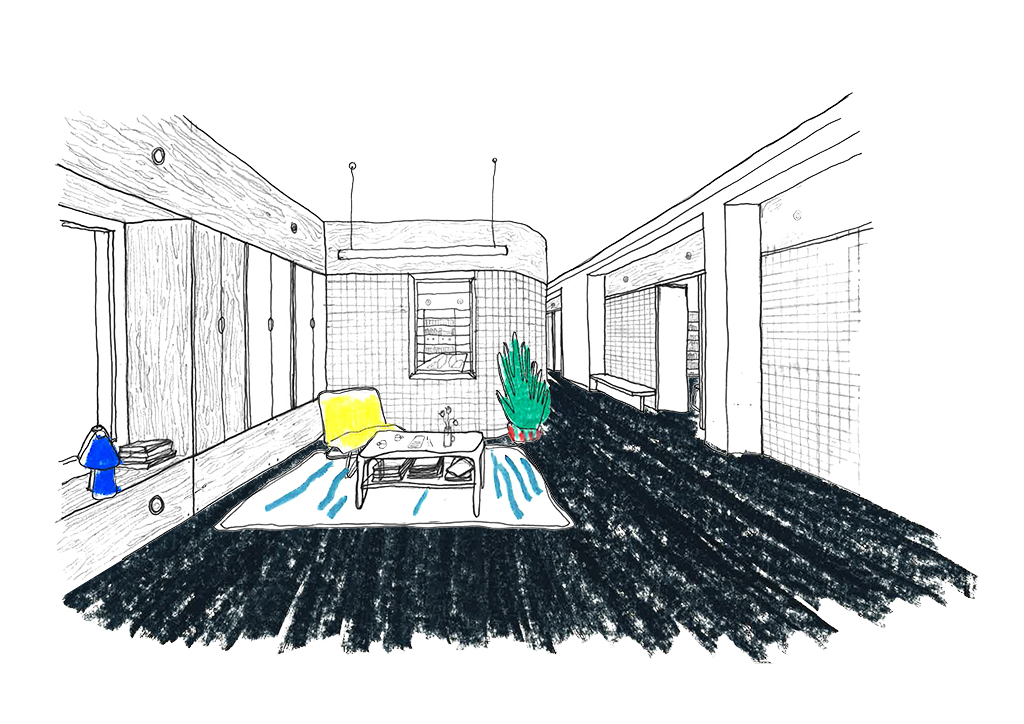
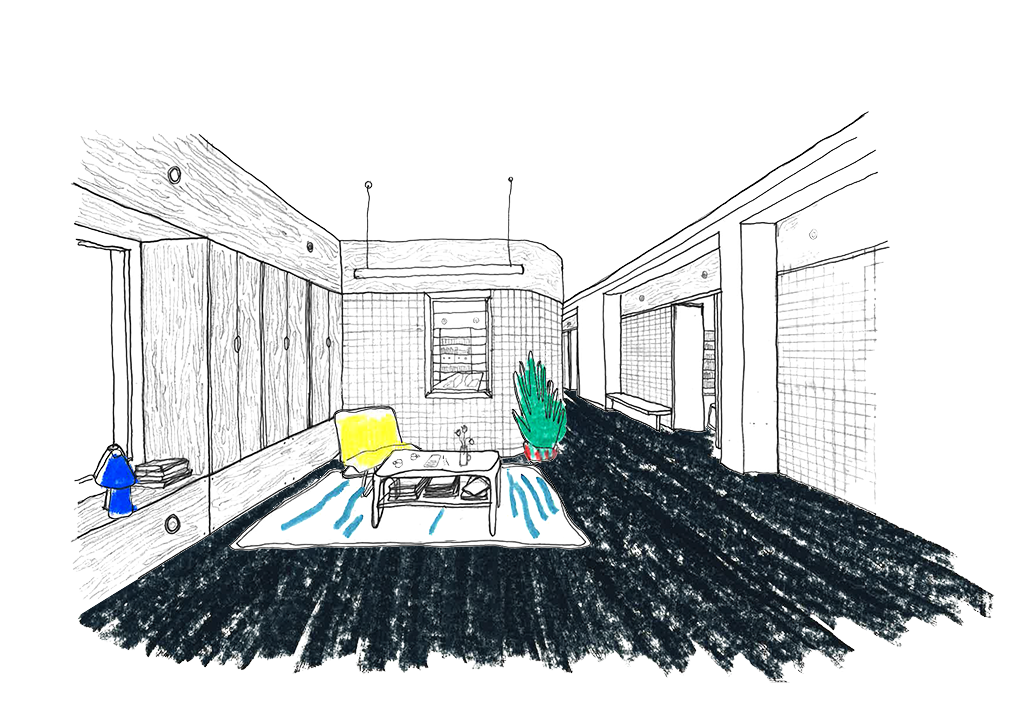
Mise à jour index.html : titres à 18px, descriptions à 15px, interlignes ajustés + remplacement de 2 photos

Changed region(s): [[0.0625, 0.1519, 0.9688, 0.942], [0.3438, 0.2431, 0.375, 0.2735]]

diff --git a/index.html b/index.html
@@ -89,16 +89,16 @@
 
     .project-title {
   font-family: 'Lato', sans-serif;
-  font-size: 10px;
+  font-size: 18px;
   font-weight: normal;
   text-transform: uppercase;
-  margin-bottom: 6px;
+  margin-bottom: 10px;
   color: #002fa7;
 }
 
     
 .project-description {
-  font-size: 11px;
+  font-size: 15px;
   text-align: left;
   max-width: 800px;
   margin: 20px auto;
@@ -106,7 +106,7 @@
   font-weight: normal;
   font-family: 'Lato', sans-serif;
   color: #002fa7;
-  line-height: 1.3;
+  line-height: 1.5;
   text-transform: uppercase;
 }
 
@@ -136,7 +136,7 @@
 @media screen and (max-width: 768px) {
   
 .project-description {
-  font-size: 11px;
+  font-size: 15px;
   text-align: left;
   max-width: 800px;
   margin: 20px auto;
@@ -144,7 +144,7 @@
   font-weight: normal;
   font-family: 'Lato', sans-serif;
   color: #002fa7;
-  line-height: 1.3;
+  line-height: 1.5;
   text-transform: uppercase;
 }
 
